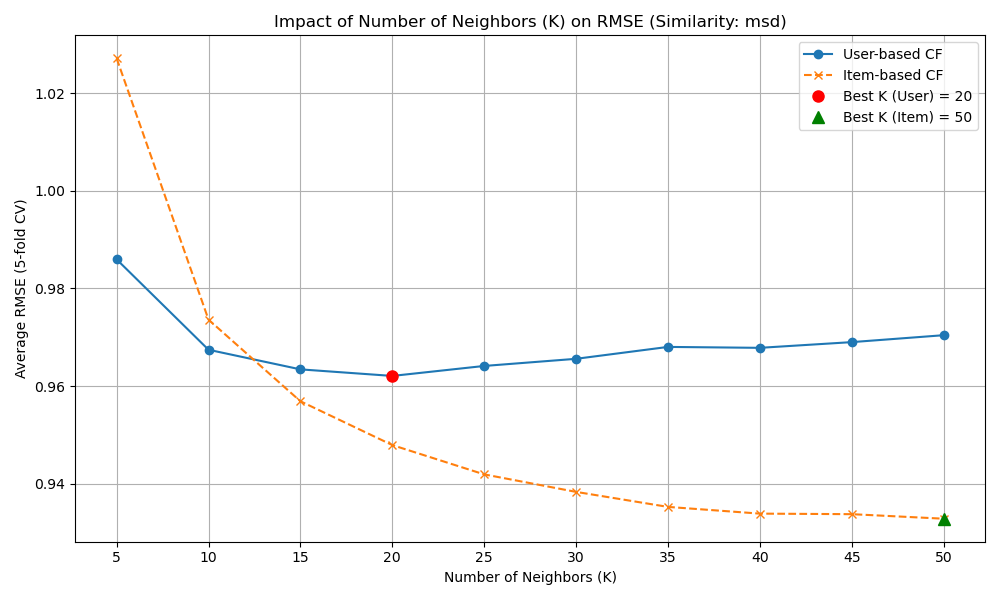
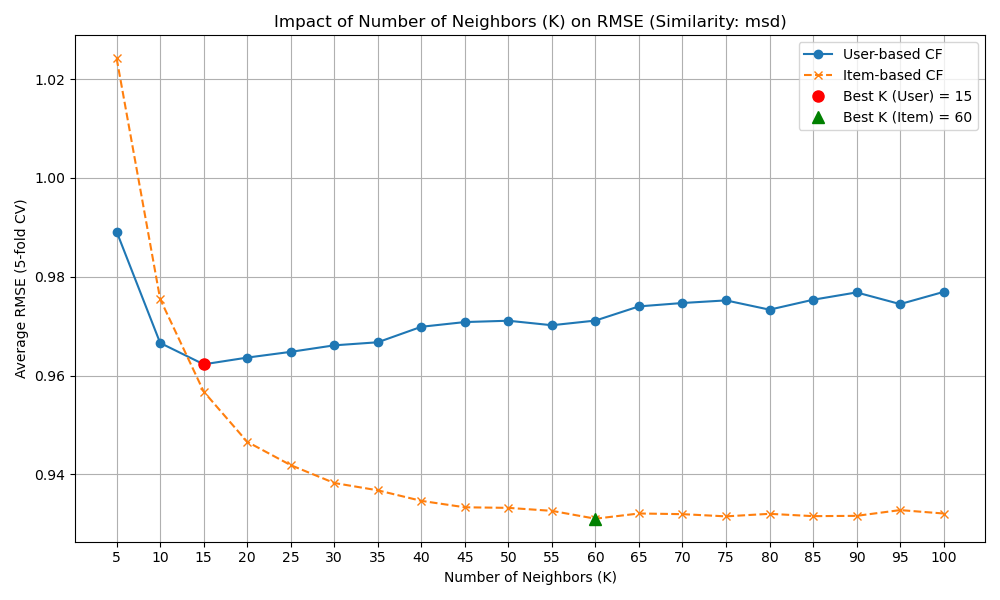
Updating code to run more neighbors to test between User and Item based collaborative filtering

diff --git a/kmeans-Task1/kmeans_scratch.py b/kmeans-Task1/kmeans_scratch.py
@@ -3,26 +3,23 @@ import numpy as np
 import matplotlib.pyplot as plt
 import random
 import time
-from scipy.stats import mode as scipy_mode # Use scipy's mode for majority voting
+from scipy.stats import mode as scipy_mode 
 from collections import Counter
 
-# --- Configuration ---
+# Configuration 
 # Set a random seed for reproducibility
 np.random.seed(42)
 random.seed(42)
 
-# --- File Paths ---
+# File Paths
 DATA_FILE = 'data.csv'
 LABEL_FILE = 'label.csv'
 
 # --- Data Loading ---
 print(f"Loading data from {DATA_FILE}...")
 try:
-    # Load the features, assuming no header row
+    # Load the features
     data = pd.read_csv(DATA_FILE, header=None)
-    # Ensure data is non-negative for Generalized Jaccard (min/max assumes non-negative)
-    # If data can be negative, the interpretation of Generalized Jaccard might need adjustment.
-    # Clipping at 0 is a common approach if negative values are small noise.
     X = np.clip(data.values, 0, None)
     print(f"Data loaded successfully: {X.shape[0]} samples, {X.shape[1]} features")
     if np.any(X < 0):
@@ -57,13 +54,11 @@ except Exception as e:
 # --- Distance Functions ---
 
 def euclidean_distance(point1, point2):
-    """Calculates the Euclidean distance between two points (vectors)."""
     point1 = np.asarray(point1)
     point2 = np.asarray(point2)
     return np.sqrt(np.sum((point1 - point2) ** 2))
 
 def cosine_distance(point1, point2):
-    """Calculates the Cosine distance between two points (vectors)."""
     point1 = np.asarray(point1)
     point2 = np.asarray(point2)
     norm1 = np.linalg.norm(point1)
@@ -74,45 +69,26 @@ def cosine_distance(point1, point2):
     similarity = np.clip(similarity, -1.0, 1.0)
     return 1.0 - similarity
 
-# def jaccard_distance(point1, point2): # Standard Binary Jaccard - kept for reference
-#     """Calculates the Jaccard distance between two BINARY points (vectors)."""
-#     point1 = np.asarray(point1).astype(bool)
-#     point2 = np.asarray(point2).astype(bool)
-#     intersection = np.sum(point1 & point2)
-#     union = np.sum(point1 | point2)
-#     if union == 0: return 0.0
-#     similarity = intersection / union
-#     return 1.0 - similarity
-
 def generalized_jaccard_distance(point1, point2):
-    """
-    Calculates the Generalized Jaccard distance (1 - Ružička similarity)
-    between two continuous, non-negative points (vectors).
-    Formula: 1 - (sum(min(p1_i, p2_i)) / sum(max(p1_i, p2_i)))
-    """
+    # Calculates the Generalized Jaccard distance (1 - Jaccard similarity)
+    # Formula: 1 - (sum(min(p1_i, p2_i)) / sum(max(p1_i, p2_i)))
     point1 = np.asarray(point1)
     point2 = np.asarray(point2)
-
-    # Ensure non-negativity (already done during loading, but good practice)
-    # point1 = np.maximum(point1, 0)
-    # point2 = np.maximum(point2, 0)
 
     min_sum = np.sum(np.minimum(point1, point2))
     max_sum = np.sum(np.maximum(point1, point2))
 
     if max_sum == 0:
-        # This happens only if both vectors are all zeros
         return 0.0
 
     similarity = min_sum / max_sum
-    # Distance is 1 - similarity
     return 1.0 - similarity
 
 
 # --- Helper Functions ---
 
 def get_distance_function(metric_name):
-    """Returns the appropriate distance function based on the metric name."""
+    # Returns the appropriate distance function based on the metric name.
     if metric_name == 'euclidean':
         return euclidean_distance
     elif metric_name == 'cosine':
@@ -125,14 +101,14 @@ def get_distance_function(metric_name):
         raise ValueError(f"Unknown distance metric: {metric_name}")
 
 def initialize_centroids_random(X, k):
-    """Initializes k centroids by randomly selecting k data points from X."""
+    # Initializes k centroids by randomly selecting k data points from X.
     n_samples = X.shape[0]
     random_indices = np.random.choice(n_samples, k, replace=False)
     centroids = X[random_indices]
     return centroids
 
 def assign_clusters(X, centroids, distance_func):
-    """Assigns each data point in X to the nearest centroid using the specified distance function."""
+    # Assigns each data point in X to the nearest centroid using the specified distance function.
     n_samples = X.shape[0]
     k = centroids.shape[0]
     cluster_assignments = np.zeros(n_samples, dtype=int)
@@ -145,10 +121,6 @@ def assign_clusters(X, centroids, distance_func):
     return cluster_assignments
 
 def update_centroids(X, cluster_assignments, k):
-    """
-    Updates the centroids based on the mean of points in each cluster.
-    This standard mean update is used for Euclidean, Cosine, and Generalized Jaccard here.
-    """
     n_features = X.shape[1]
     new_centroids = np.zeros((k, n_features))
 
@@ -166,7 +138,6 @@ def update_centroids(X, cluster_assignments, k):
     return new_centroids
 
 def calculate_sse(X, centroids, cluster_assignments, distance_func):
-    """Calculates the Sum of Squared Errors (SSE) for the clustering."""
     sse = 0.0
     k = centroids.shape[0]
     for j in range(k):
@@ -177,7 +148,6 @@ def calculate_sse(X, centroids, cluster_assignments, distance_func):
     return sse
 
 def calculate_accuracy(true_labels, cluster_assignments, k):
-    """Calculates clustering accuracy using majority vote labeling."""
     n_samples = len(true_labels)
     cluster_labels = np.zeros(k, dtype=int)
 
@@ -202,23 +172,6 @@ def calculate_accuracy(true_labels, cluster_assignments, k):
 # --- K-Means Algorithm Implementation ---
 
 def kmeans(X_input, k, distance_metric, max_iterations=100, tolerance=1e-4, stop_on_sse_increase=False):
-    """
-    Performs K-means clustering with specified distance metric and stop criteria.
-
-    Args:
-        X_input (np.ndarray): The dataset (n_samples, n_features).
-                               Should be NON-NEGATIVE for 'generalized_jaccard'.
-        k (int): The number of clusters.
-        distance_metric (str): 'euclidean', 'cosine', or 'generalized_jaccard'.
-        max_iterations (int): Maximum number of iterations.
-        tolerance (float): Threshold for centroid movement convergence.
-                           Set to 0 for exact match stop condition.
-                           Set to infinity if only relying on other criteria.
-        stop_on_sse_increase (bool): If True, stop if SSE increases.
-
-    Returns:
-        dict: A dictionary containing results.
-    """
     start_time = time.time()
     print(f"\nStarting K-Means with metric='{distance_metric}', k={k}, max_iter={max_iterations}, tol={tolerance}, stop_on_sse_increase={stop_on_sse_increase}")
 

diff --git a/recommender-Task2/recommender.py b/recommender-Task2/recommender.py
@@ -1,18 +1,16 @@
 import pandas as pd
-from surprise import Dataset, Reader, KNNBasic
+from surprise import Dataset, Reader, KNNBasic, SVD
 from surprise.model_selection import cross_validate
 import matplotlib
-# --- FIX: Force Matplotlib to use a non-GUI backend ---
-# This must be done BEFORE importing pyplot
+# runs Matplotlib to use a non-GUI backend 
+# I am using WSL to run the code so this was necessary
 matplotlib.use('Agg')
-# --- End Fix ---
 import matplotlib.pyplot as plt
 import numpy as np
 import io
-import time # Import time for measuring execution
+import time 
 
-# --- Data Loading ---
-# Assuming 'ratings_small.csv' is in the same directory as the script
+# Loading data
 file_path = 'ratings_small.csv'
 
 print("--- Loading Data ---")
@@ -21,6 +19,73 @@ try:
 except UnicodeDecodeError:
     print("UTF-8 decoding failed, trying latin1 encoding.")
     df = pd.read_csv(file_path, encoding='latin1')
+    
+# Print column names to verify they are read correctly
+print("Columns in the CSV:", df.columns)
+print("\nFirst 5 rows of the dataframe:")
+print(df.head())
+
+# Loading Data for Surpise
+expected_columns = ['userId', 'movieId', 'rating', 'timestamp']
+if list(df.columns) == expected_columns:
+    print("\nHeader row seems correct.")
+    reader = Reader(rating_scale=(df['rating'].min(), df['rating'].max())) # Dynamically set rating scale
+    data = Dataset.load_from_df(df[['userId', 'movieId', 'rating']], reader)
+    print("Data loaded successfully into Surprise format.")
+else:
+    raise ValueError("Please check the CSV file's header and column names.")
+
+
+# Models
+# User-based Collaborative Filtering (cosine)
+sim_options_user = {'name': 'cosine', 'user_based': True}
+algo_user_based = KNNBasic(sim_options=sim_options_user)
+
+# Item-based Collaborative Filtering (cosine)
+sim_options_item = {'name': 'cosine', 'user_based': False}
+algo_item_based = KNNBasic(sim_options=sim_options_item)
+
+# Probabilistic Matrix Factorization (PMF) - Surprise uses SVD algorithm has to be unbased to follow PMF
+algo_pmf = SVD(biased=False)
+
+# cross validation
+results = {}
+models = {
+    "User-based CF": algo_user_based,
+    "Item-based CF": algo_item_based,
+    "PMF (SVD biased=False)": algo_pmf
+}
+
+print("\nStarting 5-fold cross-validation for each model...")
+
+for name, algo in models.items():
+    print(f"  Processing: {name}")
+    # Perform cross-validation
+    cv_results = cross_validate(algo, data, measures=['RMSE', 'MAE'], cv=5, verbose=True, n_jobs=-1)
+
+    # Calculate and store average MAE and RMSE
+    avg_mae = cv_results['test_mae'].mean()
+    avg_rmse = cv_results['test_rmse'].mean()
+    results[name] = {'MAE': avg_mae, 'RMSE': avg_rmse}
+    print(f"  Finished: {name}")
+
+# Results for C/D
+# Convert results dictionary to a pandas DataFrame for clearer display
+results_df = pd.DataFrame(results).T  # Transpose for model-wise rows
+
+print("\n--- Average Cross-Validation Results ---")
+# Format the output for better readability
+print(results_df.round(4))
+
+# Determine the best model based on lowest average RMSE and MAE
+best_rmse_model = results_df['RMSE'].idxmin()
+min_rmse = results_df['RMSE'].min()
+best_mae_model = results_df['MAE'].idxmin()
+min_mae = results_df['MAE'].min()
+
+print("\n--- Model Comparison ---")
+print(f"Best model according to RMSE: {best_rmse_model} (RMSE = {min_rmse:.4f})")
+print(f"Best model according to MAE:  {best_mae_model} (MAE = {min_mae:.4f})")
 
 print("Columns in the CSV:", df.columns)
 # Basic check for expected columns
@@ -40,7 +105,7 @@ data = Dataset.load_from_df(df_load, reader)
 print("Data loaded successfully into Surprise format.")
 print("-" * 30)
 
-# --- Part e: Similarity Metric Comparison ---
+# Comparing similarity metrics
 print("\n--- Part e: Evaluating Similarity Metrics ---")
 similarity_metrics = ['cosine', 'msd', 'pearson']
 results_similarity = {'User-based CF': {}, 'Item-based CF': {}}
@@ -130,7 +195,7 @@ print("\n--- Part f & g: Evaluating Number of Neighbors (K) ---")
 chosen_similarity = 'msd'
 print(f"Using '{chosen_similarity}' similarity for neighbor analysis.")
 
-k_values = range(5, 51, 5) # Test K from 5 to 50 in steps of 5
+k_values = range(5, 101, 5) # Test K from 5 to 50 in steps of 5
 results_k_user = {}
 results_k_item = {}
 
